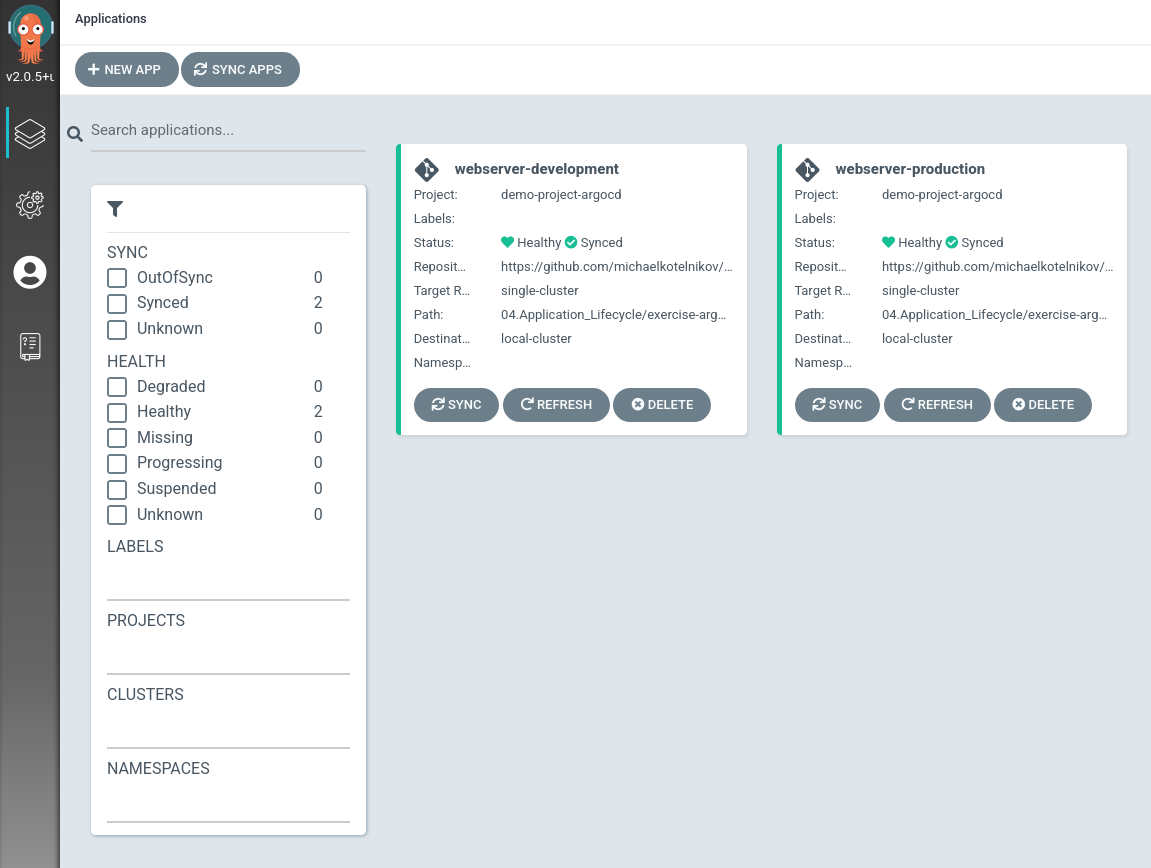
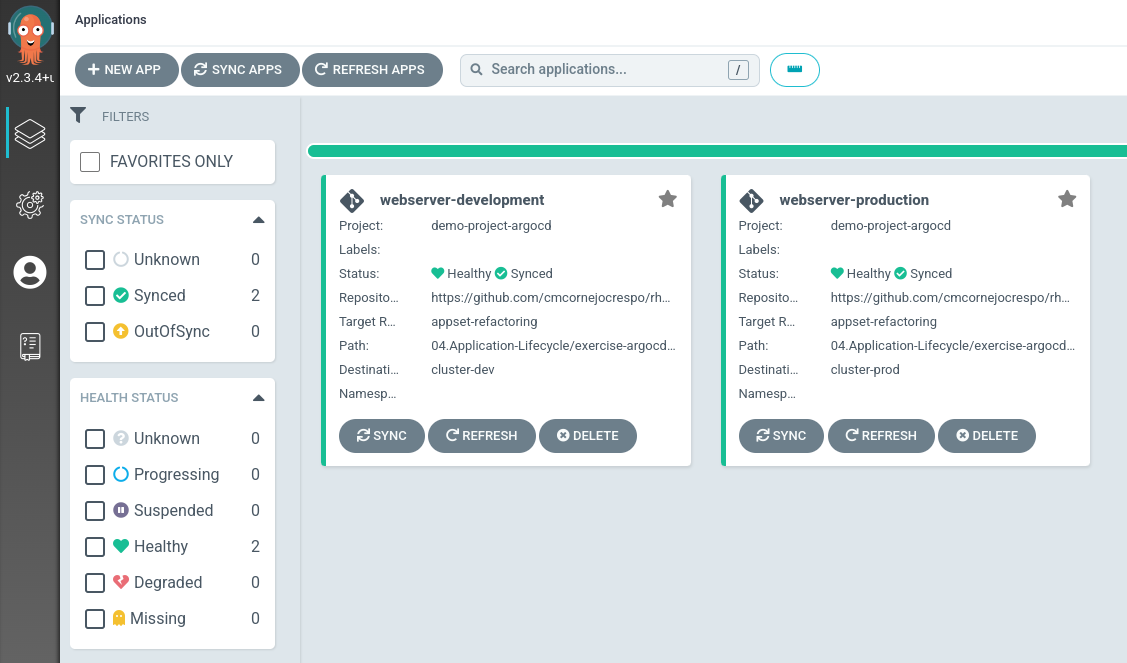
readme polishing

diff --git a/04.Application-Lifecycle/README.md b/04.Application-Lifecycle/README.md
@@ -398,13 +398,81 @@ Make sure that both clsuters are imported into ArgoCD. In ArgoCD's web UI, on th
 
 Now that you integrated ArgoCD with RHACM, let's deploy an ApplicationSet resource using ArgoCD. The applications you're going to create in this part are based on the same applications you have created in previous exercise - One web server application for a development environment and one for a production environment.
 
-The applications are based on one [helm](https://helm.sh/) chart. Each application in the set is identified by its own unique `values.yaml` file. The applications are using the same baseline kubernetes resources at - [exercise-argocd/application-resources/templates](exercise-argocd/application-resources/templates), but they are using different `values` files at - [exercise-argocd/application-resources/values](exercise-argocd/application-resources/values). Each instance of the application uses a seperate values set. The ApplicationSet resource iterates over the directories in the [exercise-argocd/application-resources/values](exercise-argocd/application-resources/values) directory and creates an instance of an application for each directory name.
+The applications are based on one [helm](https://helm.sh/) chart. Each application in the set is identified by its own unique `values.yaml` file. The applications are using the same baseline kubernetes resources at - [exercise-argocd/application-resources/templates](exercise-argocd/application-resources/templates), but they are using different `values` files at - [exercise-argocd/application-resources/values/{webserver-development,webserver-production}](exercise-argocd/application-resources/values). Each instance of the application uses a seperate values set. The ApplicationSet resource iterates over the directories in the [exercise-argocd/application-resources/values/{webserver-development,webserver-production}](exercise-argocd/application-resources/values) directory and creates an instance of an application for each directory name.
 
 To create the ApplicationSet resource run the next commands -
 
+```yaml
+<hub> $ cat <<EOF | oc apply -f -
+apiVersion: argoproj.io/v1alpha1
+kind: AppProject
+metadata:
+  name: webserver-project-argocd
+  namespace: openshift-gitops
+spec:
+  clusterResourceWhitelist:
+  - group: '*'
+    kind: '*'
+  destinations:
+  - namespace: '*'
+    name: cluster-dev
+    server: '*'
+  - namespace: '*'
+    name: cluster-prod
+    server: '*'
+  sourceRepos:
+  - '*'
+EOF
+```
+or
 ```sh
 <hub> $ oc apply -f https://raw.githubusercontent.com/cmcornejocrespo/rhacm-workshop/master/04.Application-Lifecycle/exercise-argocd/argocd-resources/appproject.yaml
 
+and
+
+```yaml
+<hub> $ cat <<EOF | oc apply -f -
+apiVersion: argoproj.io/v1alpha1
+kind: ApplicationSet
+metadata:
+  name: webserver-as
+  namespace: openshift-gitops
+spec:
+  generators:
+  - git:
+      repoURL: https://github.com/cmcornejocrespo/rhacm-workshop.git
+      revision: appset-refactoring
+      files:
+      - path: "04.Application-Lifecycle/exercise-argocd/argocd-resources/environments/**/cluster.json"
+  - git:
+      repoURL: https://github.com/cmcornejocrespo/rhacm-workshop.git
+      revision: appset-refactoring
+      directories:
+      - path: 04.Application-Lifecycle/exercise-argocd/application-resources/values/*
+  template:
+    metadata:
+      name: '{{application_name}}'
+    spec:
+      project: webserver-project-argocd
+      source:
+        repoURL: https://github.com/cmcornejocrespo/rhacm-workshop.git
+        targetRevision: appset-refactoring
+        path: 04.Application-Lifecycle/exercise-argocd/application-resources/
+        helm:
+          valueFiles:
+          - 'values/{{application_name}}/values.yaml'
+      destination:
+        name: '{{cluster.name}}'
+      syncPolicy:
+        automated:
+          prune: false
+          selfHeal: true
+
+EOF
+```
+or
+
+```
 <hub> $ oc apply -f https://raw.githubusercontent.com/cmcornejocrespo/rhacm-workshop/master/04.Application-Lifecycle/exercise-argocd/argocd-resources/applicationset.yaml
 ```
 
@@ -423,8 +491,8 @@ The deployed application resources can be seen in the ApplicationSet instance in
 Make sure that the application is available by navigating to its Route resource.
 
 ```sh
-<hub> $ oc get route -n webserver-prod
+<hub> $ oc get route -n webserver
 
 NAME        HOST/PORT                              PATH                SERVICES    PORT       TERMINATION   WILDCARD
-webserver   webserver-webserver-prod.apps.<FQDN>   /application.html    webserver   8080-tcp   edge          None
+webserver   webserver-webserver.apps.<FQDN>   /application.html    webserver   8080-tcp   edge          None
 ```
